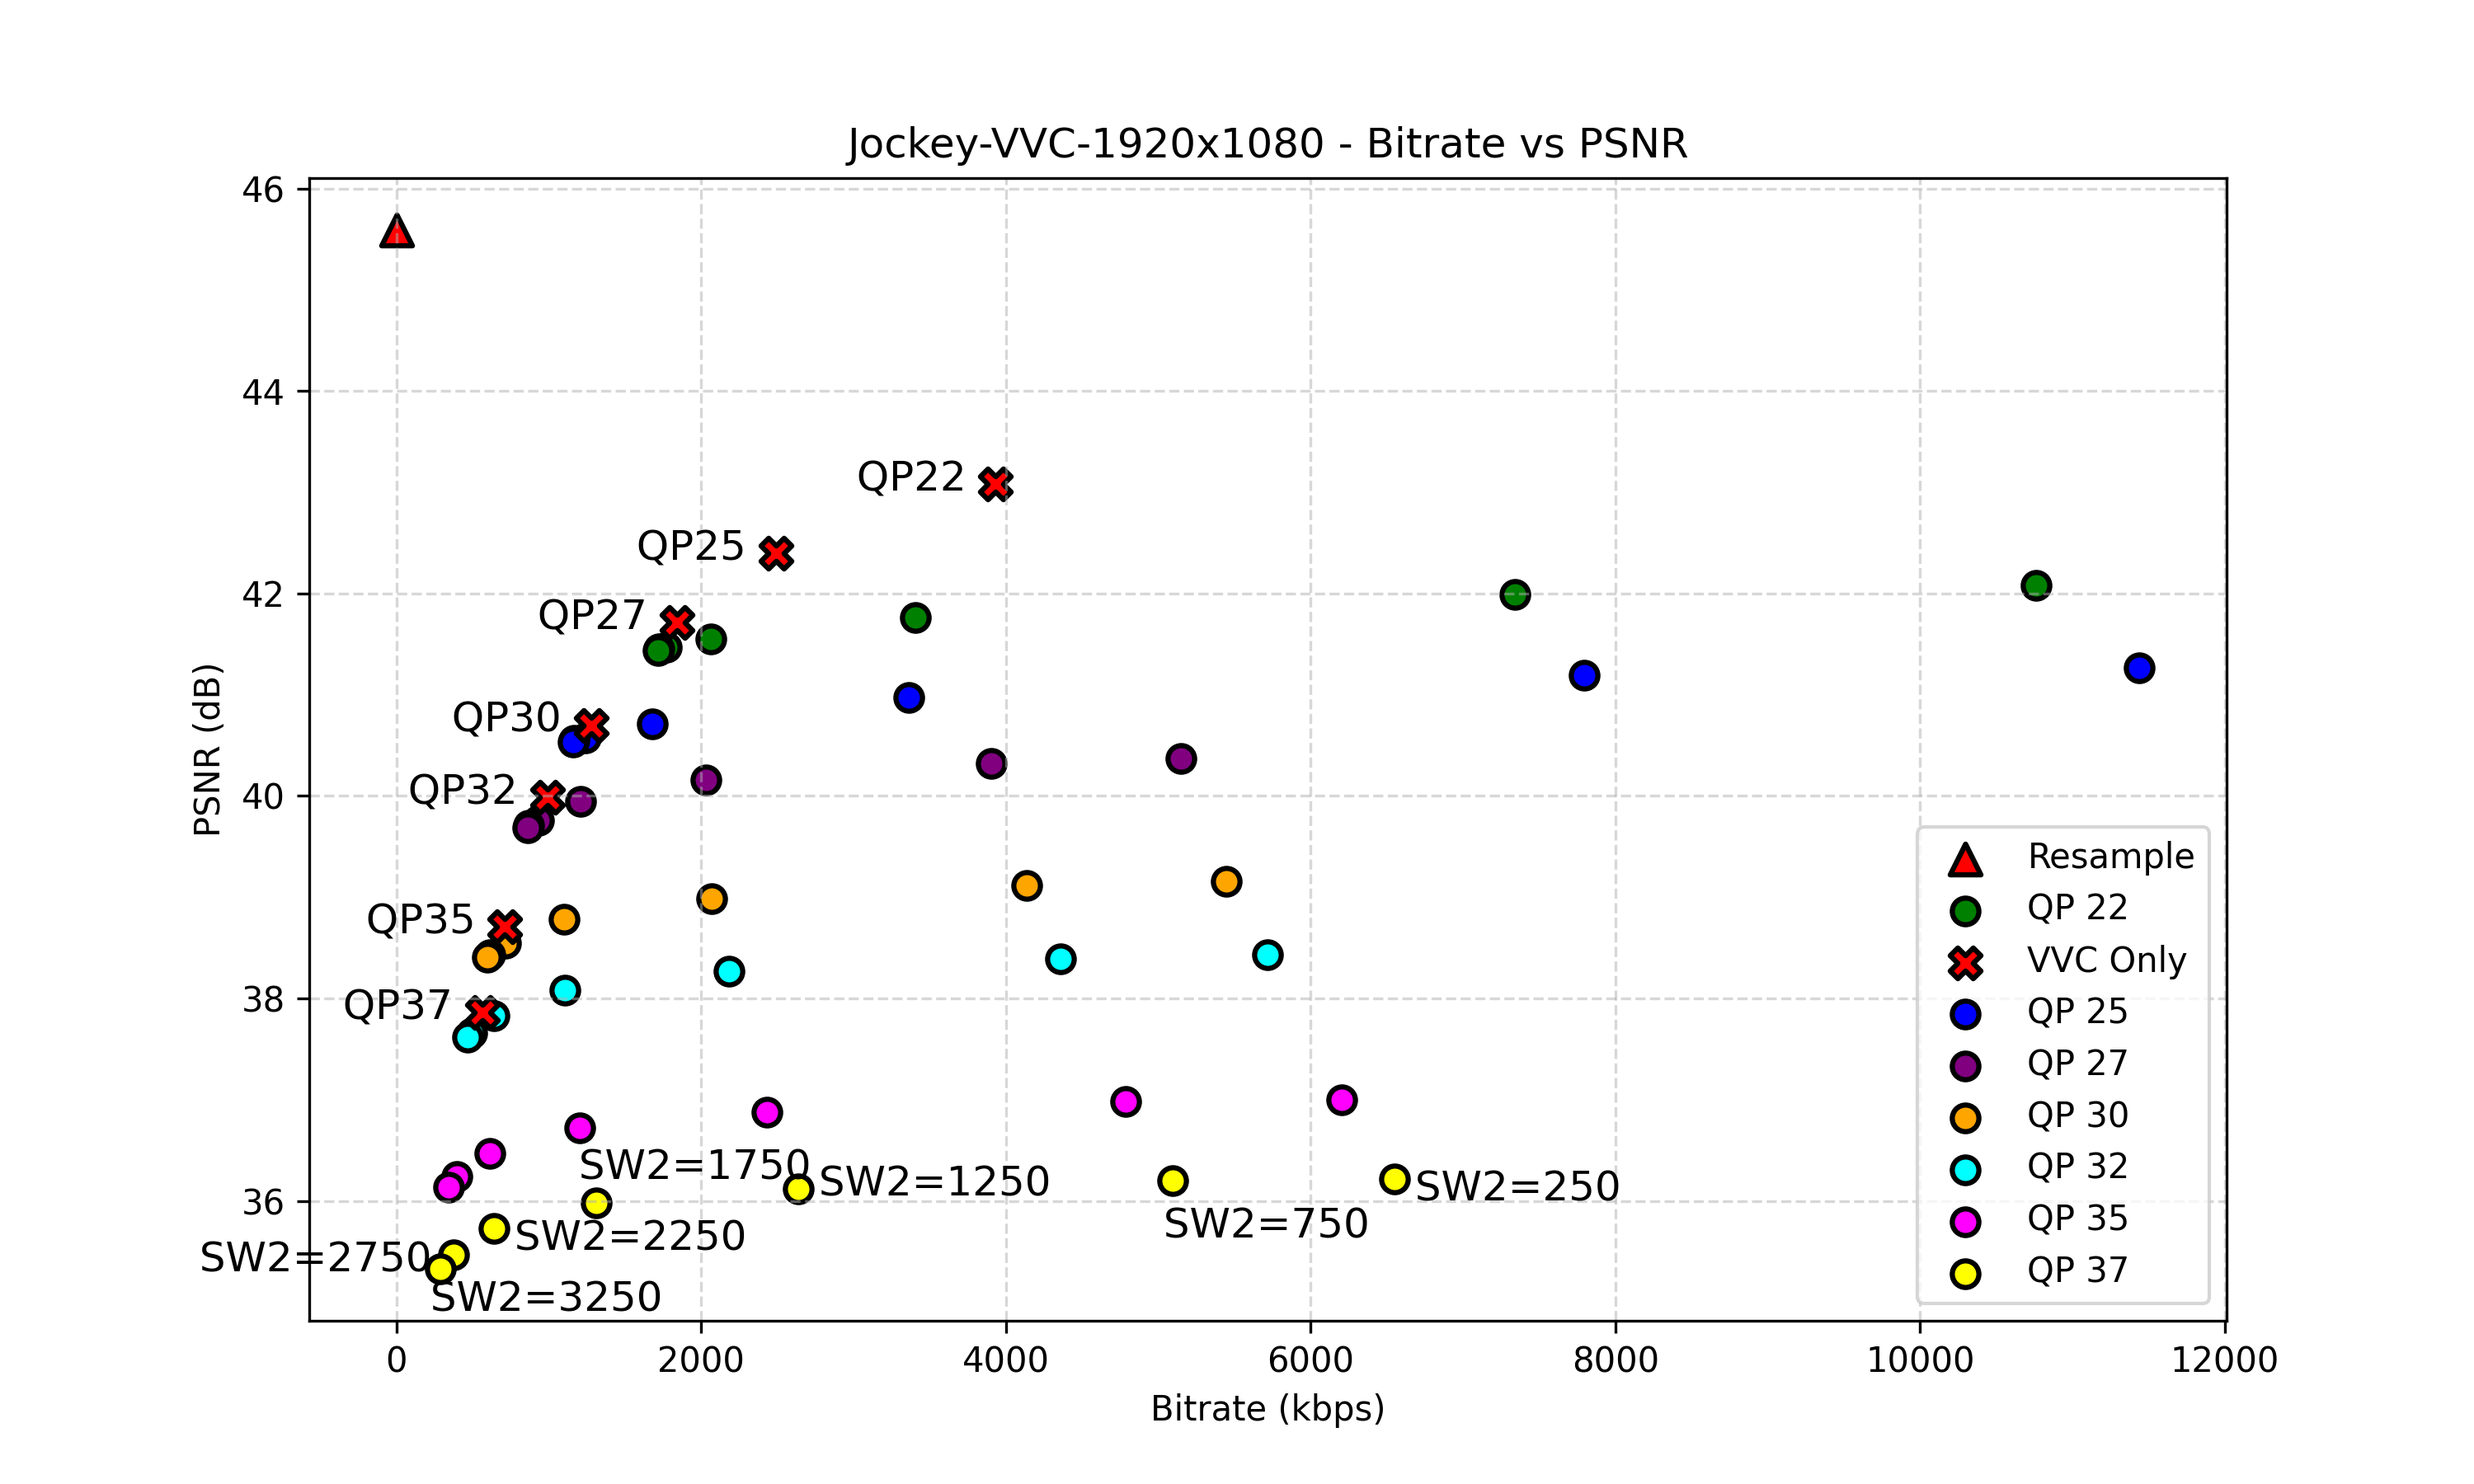
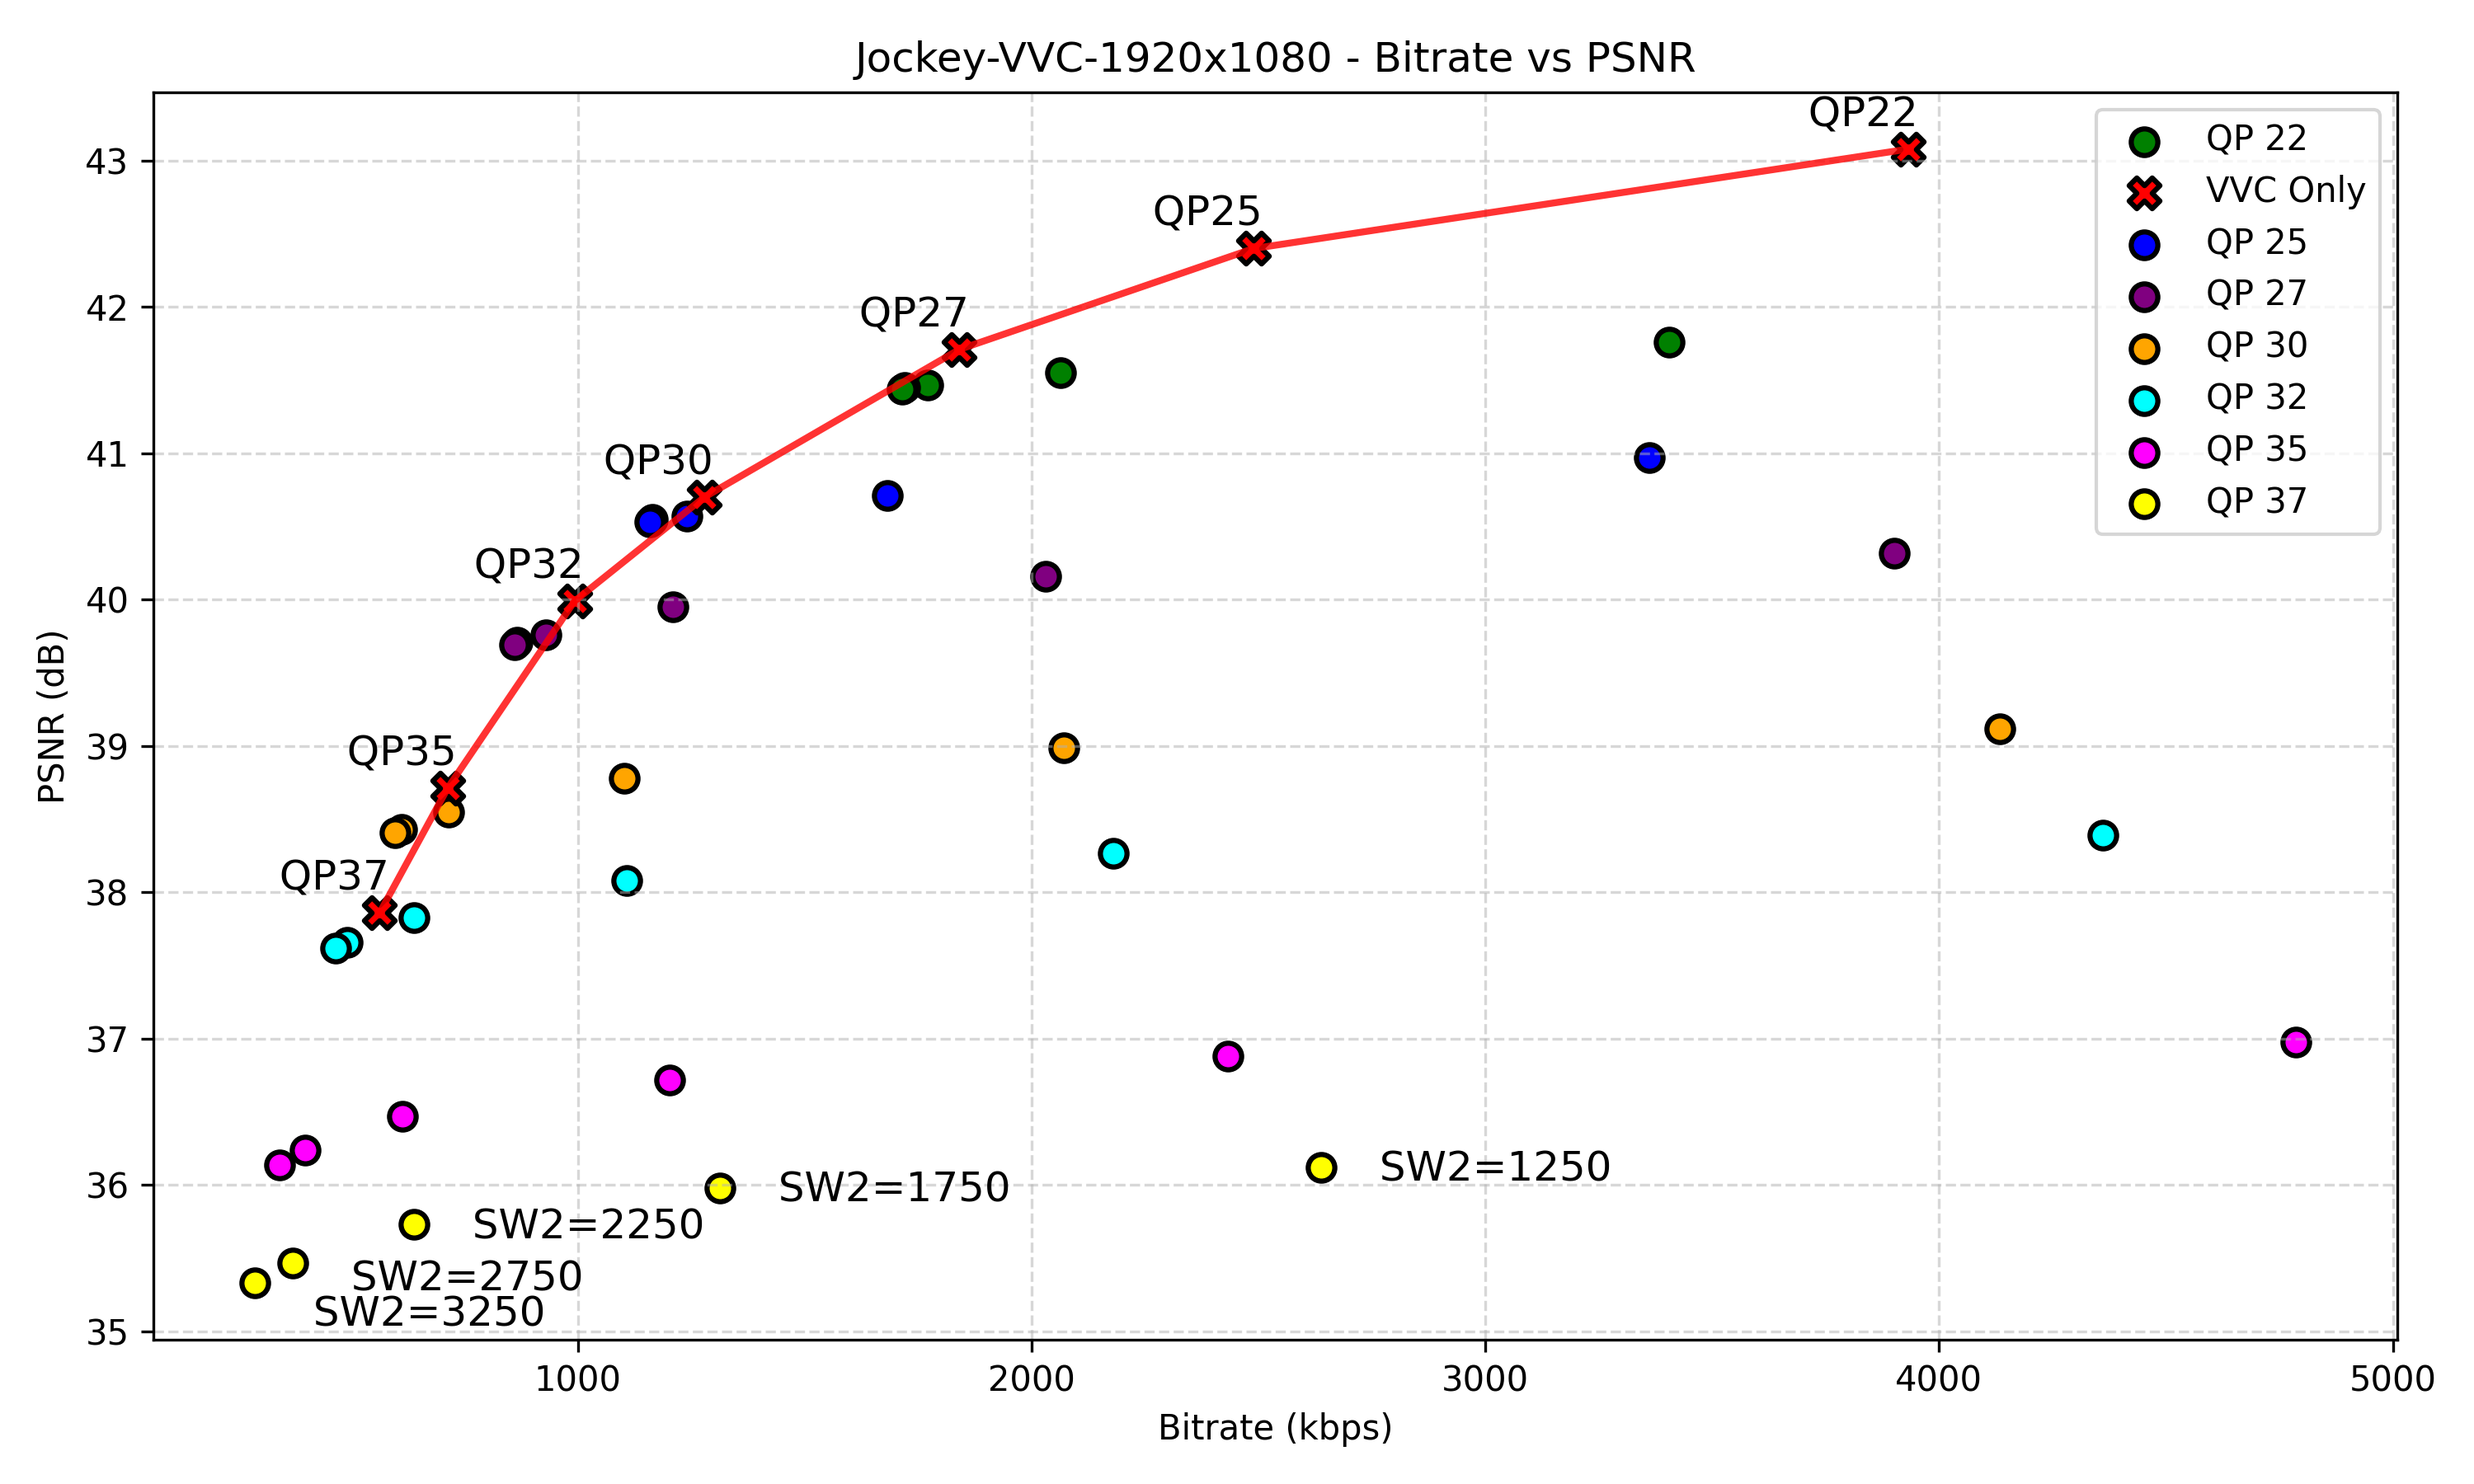
Updated via sync.sh

diff --git a/PSNR/psnr.py b/PSNR/psnr.py
@@ -16,7 +16,7 @@ current_dir = os.path.dirname(os.path.abspath(__file__))
 csv_files = glob(os.path.join(current_dir, "*.csv"))
 
 # Paleta de cores para QPs
-color_palette = ['red', 'green', 'blue', 'purple', 'orange', 'cyan', 'magenta', 'yellow']
+color_palette = ['green', 'blue', 'purple', 'orange', 'cyan', 'magenta', 'yellow']
 
 for csv_path in csv_files:
     file_name = os.path.basename(csv_path)
@@ -86,55 +86,56 @@ for csv_path in csv_files:
                 codec_short = "264" if row["sw2"] == 264 else "265"
                 text_label = f" QP{row['qp']}" if row["qp"] != 0 else ""
             elif is_resample:
-                text_label = "Resample"
+                text_label = ""
 
-            # Ajustes finos de posição
-            xoffset = -1000
-            yoffset = -0.1
+            xoffset = 0
+            yoffset = 0
 
             if row["sw2"] != 264 and row["sw2"] != 265:
                 if row["qp"] == 37:
                     text_label += f" SW2={row['sw2']}"
-                    xoffset = 500
+                    xoffset = 100
                     yoffset = -0.15
                 pass
 
             if is_reference:
-                xoffset = -1500
-                yoffset = 0.3
+                xoffset = -1400
+                yoffset = 0
             elif is_resample:
-                xoffset = -100
-                yoffset = -100
+                xoffset = 0
+                yoffset = 0
 
+            # if row["qp"] == 35:
+            #     xoffset += -200
+            #     yoffset += -0.2
+            
             # if row["sw2"] == 1250:
             #     xoffset += 0
             #     yoffset -= 0.15
             
-            # if row["sw2"] == 3250:
-            #     xoffset -= 400
-            #     yoffset -= 0.35
+            if row["sw2"] == 3250:
+                xoffset -= 0
+                yoffset -= 0.35
 
-            # if row["sw2"] == 2750:
-            #     xoffset -= 500
-            #     yoffset -= 0.3
+            if row["sw2"] == 2750:
+                xoffset -= 0
+                yoffset -= 0.3
 
-            # if row["sw2"] == 1750:
+            if row["sw2"] == 1750:
+                xoffset -= 0
+                yoffset -= -0.1
+
+            if row["sw2"] == 2250:
+                xoffset -= 0
+                yoffset -= 0.2
+
+            # if row["sw2"] == 250:
             #     xoffset -= 0
-            #     yoffset += 0.25
-
-            # if row["sw2"] == 2250:
-            #     xoffset -= 200
             #     yoffset -= 0.15
 
-            # # if row["sw2"] == 250:
-            # #     xoffset -= 0
-            # #     yoffset -= 0.15
-
-            # if row["sw2"] == 750:
-            #     xoffset -= 3000
-            #     yoffset -= 0.6
-
-
+            if row["sw2"] == 750:
+                xoffset -= 2600
+                yoffset -= 0.4
 
             plt.text(
                 row["bitrate_kbps"] + xoffset,
@@ -146,6 +147,18 @@ for csv_path in csv_files:
                 fontweight='normal'
             )
 
+    # 🔗 Conecta todos os pontos 'X' (AVC/VVC) em ordem de bitrate
+    ref_points = df[df["sw2"].isin([264, 265])].sort_values(by="bitrate_kbps")
+    if len(ref_points) > 1:
+        plt.plot(
+            ref_points["bitrate_kbps"],
+            ref_points["psnr_avg"],
+            color='red',
+            linestyle='-',
+            linewidth=2,
+            alpha=0.8,
+            label=None  # evita duplicar na legenda
+        )
 
     # Finaliza e salva o gráfico
     plt.xlabel("Bitrate (kbps)")
